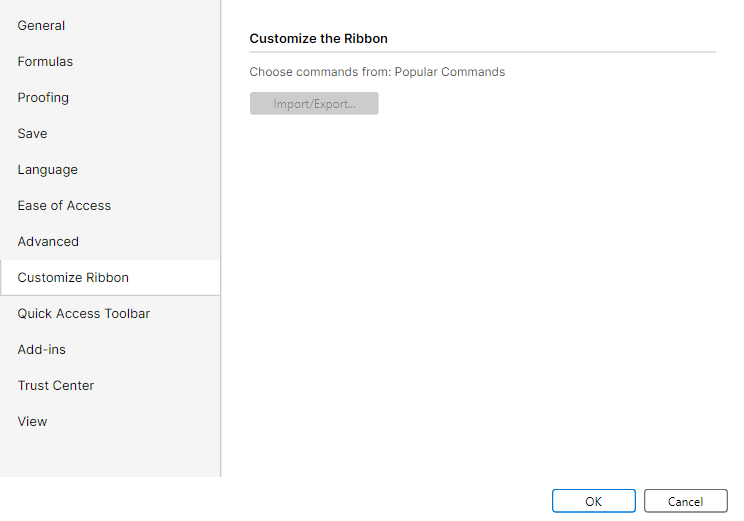
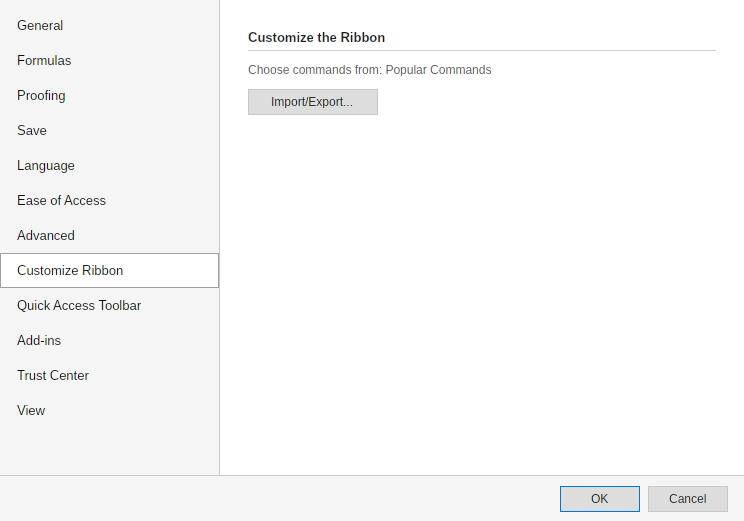
FreeX: complete Customize Ribbon import-export parity

diff --git a/tests/FreeX.App.Avalonia.Tests/OptionsDialogAdvancedParitySourceTests.cs b/tests/FreeX.App.Avalonia.Tests/OptionsDialogAdvancedParitySourceTests.cs
@@ -1,9 +1,24 @@
+using System.Reflection;
+using System.Threading;
+
+using Avalonia.Automation;
+using Avalonia.Controls;
+using Avalonia.Headless;
+using Avalonia.Input;
+using Avalonia.Interactivity;
+using Avalonia.Threading;
+using Avalonia.VisualTree;
+using Free.Shared.Shell.Avalonia;
+
 using System.IO;
 
 namespace FreeX.App.Avalonia.Tests;
 
 public sealed class OptionsDialogAdvancedParitySourceTests
 {
+    private static readonly HeadlessUnitTestSession Session =
+        HeadlessUnitTestSession.GetOrStartForAssembly(typeof(RibbonHeadlessApp).Assembly);
+
     [Fact]
     public void AdvancedOptions_UsesSharedMetricsAndWpfRowGeometry()
     {
@@ -81,6 +96,129 @@ public sealed class OptionsDialogAdvancedParitySourceTests
         source.Should().Contain("IsCancel = true");
         source.Should().Contain("cancelButton.Click += (_, _) => dialog.Close();");
         source.Should().Contain("await dialog.ShowDialog(this);");
+    }
+
+    [Fact]
+    public void CustomizeRibbon_UsesEnabledOwnedLocalizedDeferredRoute()
+    {
+        var source = File.ReadAllText(RepoFile("src", "FreeX.App.Avalonia", "MainWindow.Options.cs"));
+        var wpf = File.ReadAllText(RepoFile("src", "FreeX.App.Host", "OptionsDialog.xaml"));
+
+        source.Should().Contain("var customizeRibbonImportExportButton = OptionsButton(OptionsText(\"Options_ImportExport\"), width: 130);");
+        source.Should().Contain("AutomationProperties.SetAutomationId(customizeRibbonImportExportButton, \"RibbonImportExportButton\");");
+        source.Should().Contain("customizeRibbonImportExportButton.Click += async (_, _) =>");
+        source.Should().Contain("AvaloniaUserMessageDialog.ShowWarningAsync(");
+        source.Should().Contain("UiText.Get(\"DeferredCommand_RibbonCustomization_Body\")");
+        source.Should().Contain("UiText.Get(\"DeferredCommand_RibbonCustomization_Title\")");
+        source.Should().Contain("customizeRibbonImportExportButton);");
+        source.Should().NotContain("OptionsButton(OptionsText(\"Options_ImportExport\"), width: 130, isEnabled: false)");
+
+        wpf.Should().Contain("x:Name=\"RibbonImportExportButton\"");
+        wpf.Should().Contain("Width=\"130\" Height=\"26\"");
+        wpf.Should().Contain("Click=\"RibbonImportExportButton_Click\"");
+
+        source.Should().Contain("Key.Enter or Key.Space");
+        source.Should().Contain("dialog.Opened += (_, _) => categoryRows[0].Focus();");
+        source.Should().Contain("IsDefault = true");
+        source.Should().Contain("IsCancel = true");
+        source.Should().Contain("cancelButton.Click += (_, _) => dialog.Close();");
+        source.Should().Contain("await dialog.ShowDialog(this);");
+    }
+
+    [Fact]
+    public async Task CustomizeRibbonImportExport_UsesOwnedModalAndClosesThroughClickAndKeyboard()
+    {
+        await Session.Dispatch(async () =>
+        {
+            var owner = new MainWindow([]);
+            Task? optionsTask = null;
+            try
+            {
+                owner.Show();
+                optionsTask = InvokePrivateTaskAsync(owner, "ShowOptionsDialogAsync");
+                await DrainInputAsync();
+
+                var options = FindOwnedWindow(owner, "OptionsDialog");
+                var categoryList = FindByAutomationId<StackPanel>(options, "OptionsCategoryList");
+                categoryList.Should().NotBeNull();
+                categoryList!.Tag.Should().BeOfType<Action<int>>().Subject(8);
+                options.UpdateLayout();
+
+                var importExport = FindByAutomationId<Button>(options, "RibbonImportExportButton");
+                importExport.Should().NotBeNull();
+                importExport!.IsEnabled.Should().BeTrue();
+
+                importExport.RaiseEvent(new RoutedEventArgs(Button.ClickEvent));
+                await DrainInputAsync();
+                var message = FindOwnedMessage(options);
+                message.Owner.Should().BeSameAs(options);
+                message.GetVisualDescendants().OfType<Button>().Single(button => button.IsDefault)
+                    .IsCancel.Should().BeTrue();
+
+                var messageOk = message.GetVisualDescendants().OfType<Button>().Single(button => button.IsDefault);
+                messageOk.RaiseEvent(new RoutedEventArgs(Button.ClickEvent));
+                await DrainInputAsync();
+                message.IsVisible.Should().BeFalse();
+                options.IsVisible.Should().BeTrue();
+
+                importExport.Focus().Should().BeTrue();
+                MainWindow.SendDialogKeyForTest(options, Key.Enter, RawInputModifiers.None, out var inputError)
+                    .Should().BeTrue(inputError);
+                await DrainInputAsync();
+                message = FindOwnedMessage(options);
+                message.Owner.Should().BeSameAs(options);
+
+                MainWindow.SendDialogKeyForTest(message, Key.Escape, RawInputModifiers.None, out inputError)
+                    .Should().BeTrue(inputError);
+                await DrainInputAsync();
+                message.IsVisible.Should().BeFalse();
+
+                FindByAutomationId<Button>(options, "OptionsCancelButton")!
+                    .RaiseEvent(new RoutedEventArgs(Button.ClickEvent));
+                await optionsTask;
+                options.IsVisible.Should().BeFalse();
+            }
+            finally
+            {
+                foreach (var dialog in owner.OwnedWindows.ToArray())
+                {
+                    if (dialog.IsVisible)
+                        dialog.Close();
+                }
+
+                if (owner.IsVisible)
+                    owner.Close();
+
+                if (optionsTask is { IsCompleted: false })
+                    await optionsTask;
+            }
+        }, CancellationToken.None);
+    }
+
+    private static Window FindOwnedWindow(MainWindow owner, string automationId) =>
+        owner.OwnedWindows.Single(window =>
+            string.Equals(AutomationProperties.GetAutomationId(window), automationId, StringComparison.Ordinal));
+
+    private static T? FindByAutomationId<T>(Control root, string automationId)
+        where T : Control =>
+        root.GetVisualDescendants().OfType<T>().FirstOrDefault(control =>
+            string.Equals(AutomationProperties.GetAutomationId(control), automationId, StringComparison.Ordinal));
+
+    private static AvaloniaUserMessageDialog FindOwnedMessage(Window owner) =>
+        owner.OwnedWindows.OfType<AvaloniaUserMessageDialog>().Single(window => window.IsVisible);
+
+    private static Task InvokePrivateTaskAsync(MainWindow owner, string methodName)
+    {
+        var method = typeof(MainWindow).GetMethod(methodName, BindingFlags.Instance | BindingFlags.NonPublic)
+            ?? throw new InvalidOperationException($"Missing production dialog opener {methodName}.");
+        return method.Invoke(owner, null) as Task
+            ?? throw new InvalidOperationException($"Production dialog opener {methodName} did not return Task.");
+    }
+
+    private static async Task DrainInputAsync()
+    {
+        await Dispatcher.UIThread.InvokeAsync(() => { }, DispatcherPriority.Input);
+        await Dispatcher.UIThread.InvokeAsync(() => { }, DispatcherPriority.Render);
     }
 
     private static string RepoFile(params string[] parts)

diff --git a/src/FreeX.App.Avalonia/MainWindow.Options.cs b/src/FreeX.App.Avalonia/MainWindow.Options.cs
@@ -574,10 +574,18 @@ public sealed partial class MainWindow
             advancedObjectsRow);
         advancedPanel.Spacing = 0;
 
+        var customizeRibbonImportExportButton = OptionsButton(OptionsText("Options_ImportExport"), width: 130);
+        AutomationProperties.SetAutomationId(customizeRibbonImportExportButton, "RibbonImportExportButton");
+        customizeRibbonImportExportButton.Click += async (_, _) =>
+            await AvaloniaUserMessageDialog.ShowWarningAsync(
+                dialog,
+                UiText.Get("DeferredCommand_RibbonCustomization_Body"),
+                UiText.Get("DeferredCommand_RibbonCustomization_Title"));
+
         var customizeRibbonPanel = OptionsCategoryPanel(
             OptionsSectionHeader(OptionsText("Options_CustomizeTheRibbon")),
             OptionsDescription(OptionsText("Options_ChooseCommandsFromPopularCommands")),
-            OptionsButton(OptionsText("Options_ImportExport"), width: 130, isEnabled: false));
+            customizeRibbonImportExportButton);
 
         var quickAccessBelowRibbonBox = new CheckBox
         {

diff --git a/tests/FreeX.App.Host.Tests/OptionsDialogSourceTests.cs b/tests/FreeX.App.Host.Tests/OptionsDialogSourceTests.cs
@@ -79,6 +79,15 @@ public sealed partial class OptionsDialogSourceTests
     }
 
     [Fact]
+    public void ParityCapture_TargetsOptionsCustomizeRibbonForFocusedEvidence()
+    {
+        var source = DialogSourceTestSupport.ReadHostSources("ParityCapture.cs");
+
+        source.Should().Contain("string.Equals(targetSurfaceId, \"dialog.Options.CustomizeRibbon\", StringComparison.Ordinal)");
+        source.Should().Contain("captureOnlySurfaceId: targetSurfaceId");
+    }
+
+    [Fact]
     public void ParityCapture_OptionsAdvancedRendersActionFooterInsideCanonicalClientFrame()
     {
         StaTestRunner.Run(() =>

diff --git a/src/FreeX.App.Host/ParityCapture.cs b/src/FreeX.App.Host/ParityCapture.cs
@@ -595,6 +595,7 @@ internal static class ParityCapture
             }
             else if (string.Equals(targetSurfaceId, "dialog.Options.Save", StringComparison.Ordinal) ||
                 string.Equals(targetSurfaceId, "dialog.Options.Language", StringComparison.Ordinal) ||
+                string.Equals(targetSurfaceId, "dialog.Options.CustomizeRibbon", StringComparison.Ordinal) ||
                 string.Equals(targetSurfaceId, "dialog.Options.TrustCenter", StringComparison.Ordinal))
             {
                 CaptureDialogTabs(results, "dialog.Options", outDir,

diff --git a/docs/parity/dialog-visual-evidence-summary.md b/docs/parity/dialog-visual-evidence-summary.md
@@ -64,7 +64,6 @@ Outliers are ranked by a deterministic triage score: normalized 32x32 ARGB sampl
 | --- | ---: | ---: | --- | --- | --- | ---: | ---: | ---: | ---: |
 | dialog.ScenarioManager | 360x420 | 360x420 | 540x630 px @ 144 DPI vs 360x420 px @ 96 DPI |  |  | 0.104 | 0.053 | 0.006 | 0.044 |
 | dialog.ErrorChecking | 720x420 | 720x420 | 1080x630 px @ 144 DPI vs 720x420 px @ 96 DPI |  |  | 0.103 | 0.030 | 0.006 | 0.066 |
-| dialog.Options.CustomizeRibbon | 744x521 | 744x521 | 744x521 px @ 96 DPI vs 744x521 px @ 96 DPI |  |  | 0.100 | 0.018 | 0.006 | 0.075 |
 | dialog.FormatCells.Border | 620x597 | 620x597 | 620x597 px @ 96 DPI vs 620x597 px @ 96 DPI |  |  | 0.099 | 0.036 | 0.003 | 0.060 |
 | dialog.AccessibilityChecker | 360x520 | 360x520 | 360x520 px @ 96 DPI vs 360x520 px @ 96 DPI |  |  | 0.099 | 0.040 | 0.023 | 0.036 |
 | dialog.Options.View | 744x521 | 744x521 | 744x521 px @ 96 DPI vs 744x521 px @ 96 DPI |  |  | 0.099 | 0.016 | 0.006 | 0.076 |
@@ -72,6 +71,7 @@ Outliers are ranked by a deterministic triage score: normalized 32x32 ARGB sampl
 | dialog.Options.AddIns | 744x521 | 744x521 | 744x521 px @ 96 DPI vs 744x521 px @ 96 DPI |  |  | 0.097 | 0.015 | 0.006 | 0.076 |
 | dialog.FindReplace | 720x430 | 720x430 | 720x430 px @ 96 DPI vs 720x430 px @ 96 DPI |  |  | 0.095 | 0.015 | 0.005 | 0.075 |
 | dialog.FindReplace.Find | 720x430 | 720x430 | 720x430 px @ 96 DPI vs 720x430 px @ 96 DPI |  |  | 0.095 | 0.015 | 0.005 | 0.075 |
+| dialog.InsertHyperlink | 560x300 | 560x300 | 840x450 px @ 144 DPI vs 560x300 px @ 96 DPI |  |  | 0.095 | 0.046 | 0.008 | 0.041 |
 
 ## Scale-Aware Dimension Mismatch Details
 
@@ -131,7 +131,7 @@ These rows have a DPI-normalized checked-in PNG size that disagrees with the dia
 | dialog.Options | dialog.Options.png | 744x521 | 744x521 px @ 96 DPI | True | dialog.Options.png | 744x521 | 744x521 px @ 96 DPI | True | True | 0.032 |
 | dialog.Options.AddIns | dialog.Options.AddIns.png | 744x521 | 744x521 px @ 96 DPI | True | dialog.Options.AddIns.png | 744x521 | 744x521 px @ 96 DPI | True | True | 0.097 |
 | dialog.Options.Advanced | dialog.Options.Advanced.png | 744x521 | 744x521 px @ 96 DPI | True | dialog.Options.Advanced.png | 744x521 | 744x521 px @ 96 DPI | True | True | 0.041 |
-| dialog.Options.CustomizeRibbon | dialog.Options.CustomizeRibbon.png | 744x521 | 744x521 px @ 96 DPI | True | dialog.Options.CustomizeRibbon.png | 744x521 | 744x521 px @ 96 DPI | True | True | 0.100 |
+| dialog.Options.CustomizeRibbon | dialog.Options.CustomizeRibbon.png | 744x521 | 744x521 px @ 96 DPI | True | dialog.Options.CustomizeRibbon.png | 744x521 | 744x521 px @ 96 DPI | True | True | 0.024 |
 | dialog.Options.EaseOfAccess | dialog.Options.EaseOfAccess.png | 744x521 | 744x521 px @ 96 DPI | True | dialog.Options.EaseOfAccess.png | 744x521 | 744x521 px @ 96 DPI | True | True | 0.098 |
 | dialog.Options.Formulas | dialog.Options.Formulas.png | 744x777 | 744x777 px @ 96 DPI | True | dialog.Options.Formulas.png | 744x777 | 744x777 px @ 96 DPI | True | True | 0.093 |
 | dialog.Options.General | dialog.Options.General.png | 744x521 | 744x521 px @ 96 DPI | True | dialog.Options.General.png | 744x521 | 744x521 px @ 96 DPI | True | True | 0.032 |

diff --git a/docs/parity/freex-options-customize-ribbon-wave34-20260727.md b/docs/parity/freex-options-customize-ribbon-wave34-20260727.md
@@ -1,0 +1,35 @@
+# FreeX Options Customize Ribbon Wave34
+
+Date: 2026-07-27
+Branch: `codex/freex-customize-ribbon-wave34-20260727`
+Surface: `dialog.Options.CustomizeRibbon`
+Authority: WPF `OptionsDialog`
+
+## Change
+
+Avalonia now enables the Import/Export button, assigns the stable `RibbonImportExportButton` automation id, and routes activation to the existing localized deferred message resources through `AvaloniaUserMessageDialog.ShowWarningAsync` owned by the Options dialog. The existing category focus/navigation, default OK, cancel, and `ShowDialog` lifecycle remain intact. WPF UI was not changed.
+
+## Runtime Evidence
+
+The fresh matched captures use the same logical client dimensions, 744 x 521 pixels:
+
+- WPF: `artifacts/options-customize-ribbon-wave34-20260727/wpf/dialog.Options.CustomizeRibbon.png`
+- Avalonia: `artifacts/options-customize-ribbon-wave34-20260727/avalonia/out/dialog.Options.CustomizeRibbon.png`
+- Compare report: `artifacts/options-customize-ribbon-wave34-20260727/compare/parity-report.json`
+- Before report: `artifacts/options-customize-ribbon-wave34-20260727/before-compare/parity-report.json`
+- Committed canonical pair: `docs/parity/dialog-visual-assets/wpf-capture/dialog.Options.CustomizeRibbon.png` and `docs/parity/dialog-visual-assets/avalonia-capture/dialog.Options.CustomizeRibbon.png`
+
+| Metric | Before canonical pair | Fresh Wave34 pair |
+| --- | ---: | ---: |
+| Target diff percent | 2.2170% | 1.6662% |
+| Logical dimensions | 744 x 521 | 744 x 521 |
+| Target present in both | yes | yes |
+| Hard comparison regressions | 0 | 0 |
+
+The fresh target reduced the measured difference by 24.84%. The remaining difference is primarily platform text/control rasterization and native chrome treatment; no additional structural change was justified, and this is not a 100% parity claim.
+
+## Behavioral Verification
+
+`OptionsDialogAdvancedParitySourceTests` passed 6/6, including real headless activation by click and Enter, owned modal verification, click/Escape close, and parent Options lifecycle completion. `OptionsDialogSourceTests` passed 46/46 on WPF. The WPF host build passed with 0 warnings and 0 errors.
+
+Capture commands also completed successfully: WPF targeted capture, Avalonia Linux Docker/Xvfb capture, and the parity comparer. The task-owned container was removed after capture; no task-owned process or container remains.
